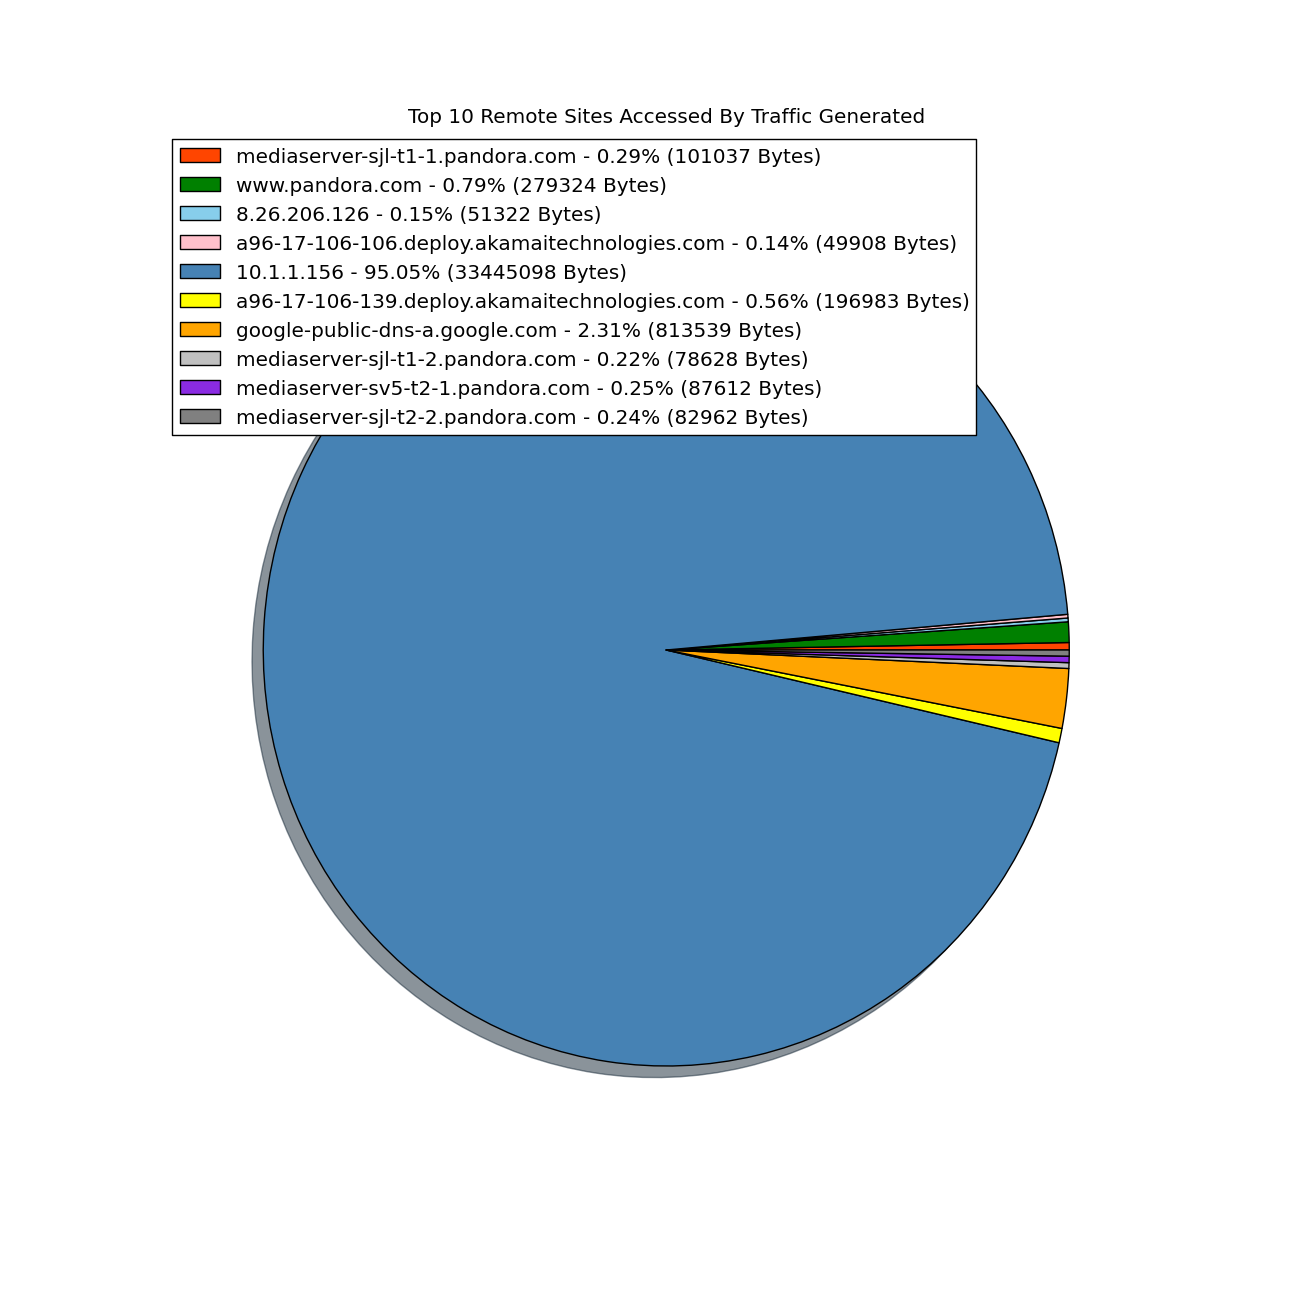
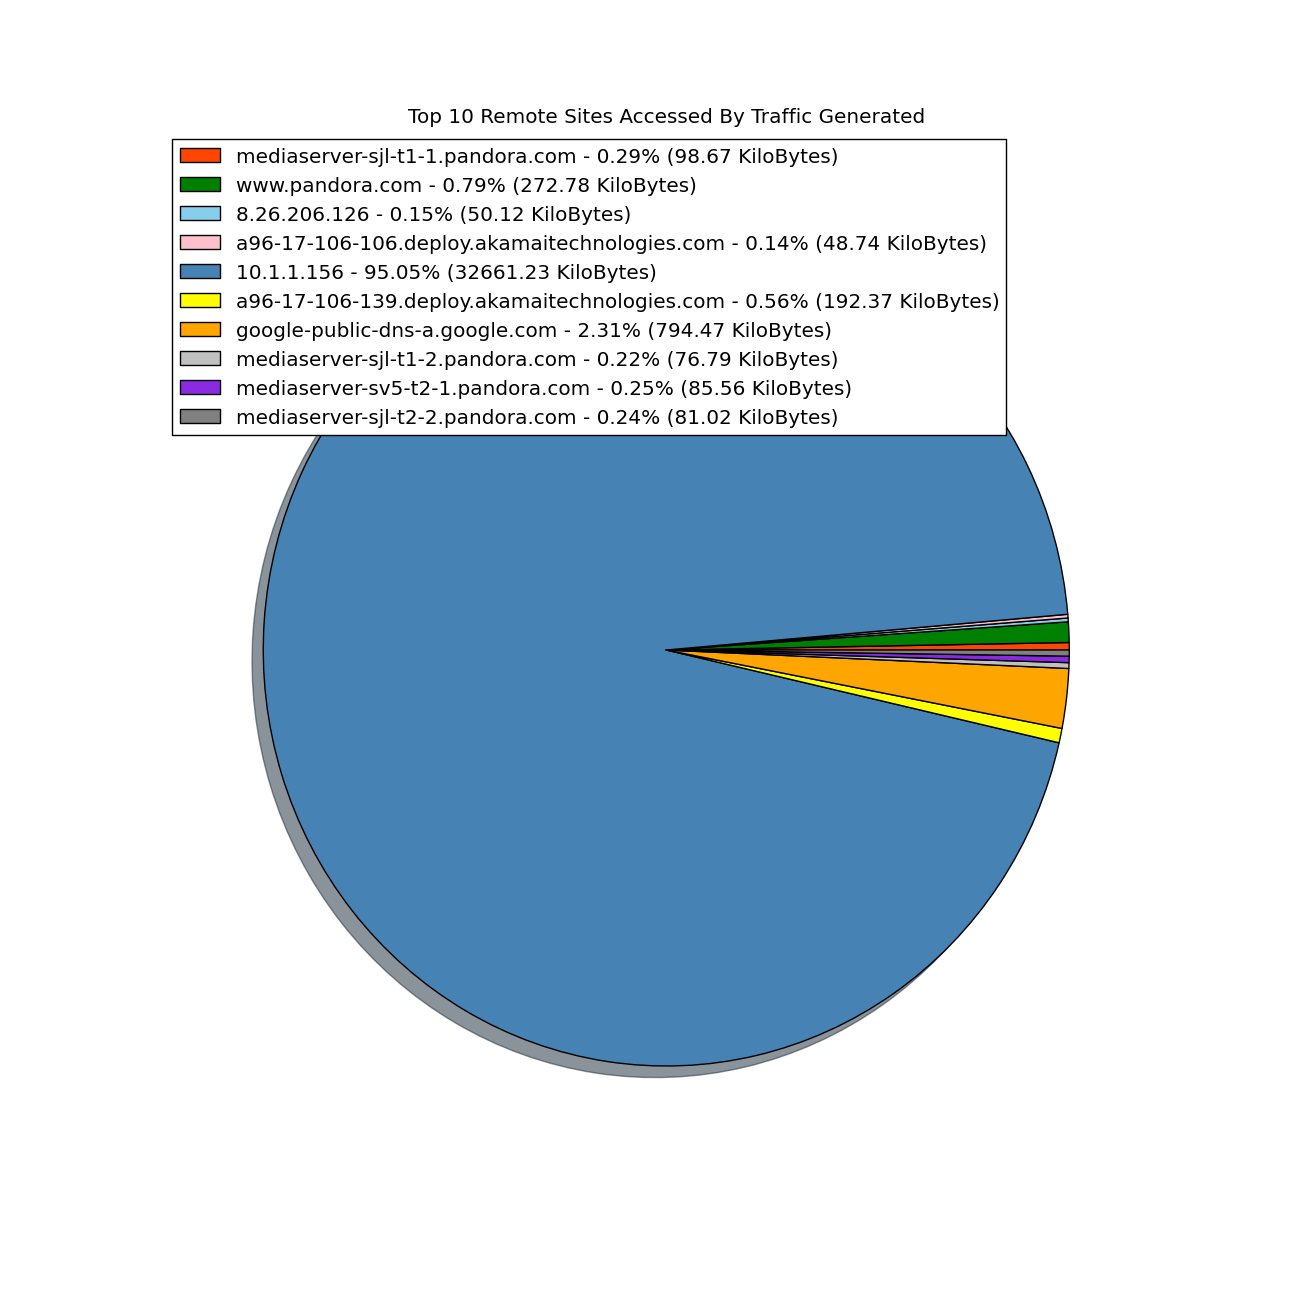
changed graphs for floating point

diff --git a/lab5/lab5.py b/lab5/lab5.py
@@ -1,4 +1,7 @@
 '''
+Lab 5
+
+Names: Robert Werthman (rowe7280), Derrick D'Souza (deds7325)
 
 Sources:
 1. http://stackoverflow.com/questions/6170246/how-do-i-use-matplotlib-autopct
@@ -32,9 +35,9 @@ def Graph(xcord, ycord, graphTitle, fileName):
     figure(figsize=(13,13))
     colors = ['orangered', 'green', 'skyblue', 'pink',\
     'steelblue', 'yellow', 'orange', 'silver', 'blueviolet', 'grey']
-    ycord = [int(i) for i in ycord]
-    percent_ycord = [(float(i)/sum(ycord))*100 for i in ycord]
-    labels = ['{0} - {1:0.2f}% ({2} Bytes)'.format(x, percent, y) for x, percent, y in zip(xcord, percent_ycord, ycord)]
+    #ycord = [int(i) for i in ycord]
+    percent_ycord = [(i/sum(ycord))*100 for i in ycord]
+    labels = ['{0} - {1:0.2f}% ({2:0.2f} KiloBytes)'.format(x, percent, y) for x, percent, y in zip(xcord, percent_ycord, ycord)]
     values = ycord
     patches, texts = pie(values, colors=colors, shadow=True)
     legend(patches, labels, loc='upper left')
@@ -61,7 +64,7 @@ def TopPorts(log, file):
     for port, octets in counter.iteritems():
         if octets in sortedValues:
             portsL.append(port)
-            octetsL.append(octets)
+            octetsL.append(float(octets)/1024)
             protocolL.append(protocolCounter[port])
     # Find the service related to the highest used ports
     for port, protocol in zip(portsL, protocolL):
@@ -91,7 +94,7 @@ def TopRemoteHosts(log, file):
     for ip, octets in counter.iteritems():
         if octets in sortedValues:
             remoteIPL.append(ip)
-            octetsL.append(octets)
+            octetsL.append(float(octets)/1024)
     # Lookup hostname of ip address
     for ip in remoteIPL:
         remoteHostName.append(DNSLookup(ip))
